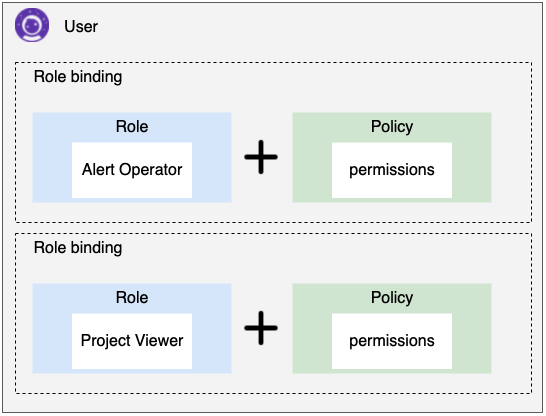
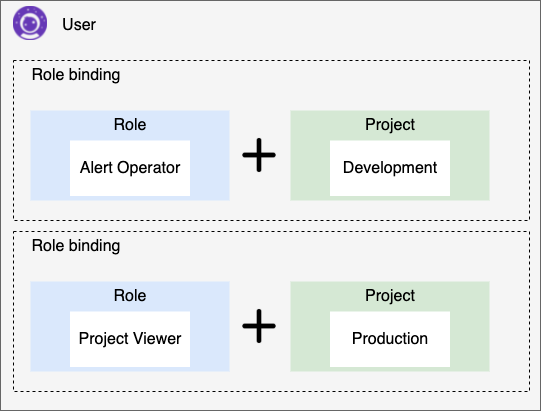
docs: update rbac documentation

diff --git a/content/ko/docs/concepts/rbac/understanding-role.md b/content/ko/docs/concepts/rbac/understanding-role.md
@@ -9,7 +9,9 @@ description: >
 
 
 ## Role structure
-Role은 자원에 대한 접근 범위를 지정하는 [Role Type](/ko/docs/concepts/rbac/understanding-role/#role-type)과 Action을 정의하는 [Policy](/ko/docs/concepts/rbac/understanding-policy/)로 구성 됩니다.
+
+Role은 아래와 같이 자원에 대한 접근 범위를 지정하는 [Role Type](/ko/docs/concepts/rbac/understanding-role/#role-type)과 권한이 적용되는 조직(프로젝트 or 프로젝트 그룹)으로 구성 됩니다.
+사용자는 RoleBinding을 통해 각 SpaceONE내에 접근할 수 있는 권한을 정의할 수 있습니다. 
 
 ![](/ko/docs/concepts/rbac/rbac_img/understanding_role_img01.png)
 

diff --git a/content/ko/docs/concepts/rbac/understanding-policy.md b/content/ko/docs/concepts/rbac/understanding-policy.md
@@ -27,7 +27,7 @@ Permission은 Cloud Resource에 대해 관리할 수 있는 범위를 정의 합
 *Custom Policy*는 *Private Repository*에 게시되어 각 도메인의 관리자가 관리합니다.
 {{< /alert >}}
 
-## Managed Policy List
+## Managed Policy
 
 아래의 Policy는 SpaceONE 팀에 의해 관리되는 Managed Policy의 전체 리스트 입니다.
 상세 Permission은 필요시 자동으로 업데이트 됩니다. Policy는 조직내의 주요 역할에 따라 분류하여 생성 하였습니다.
